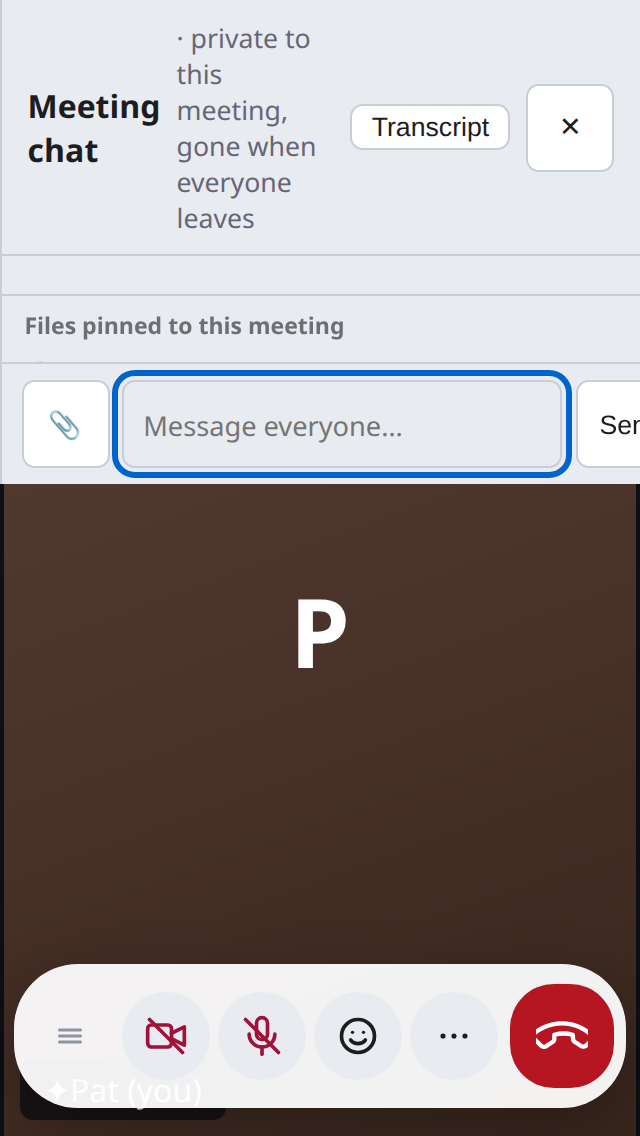
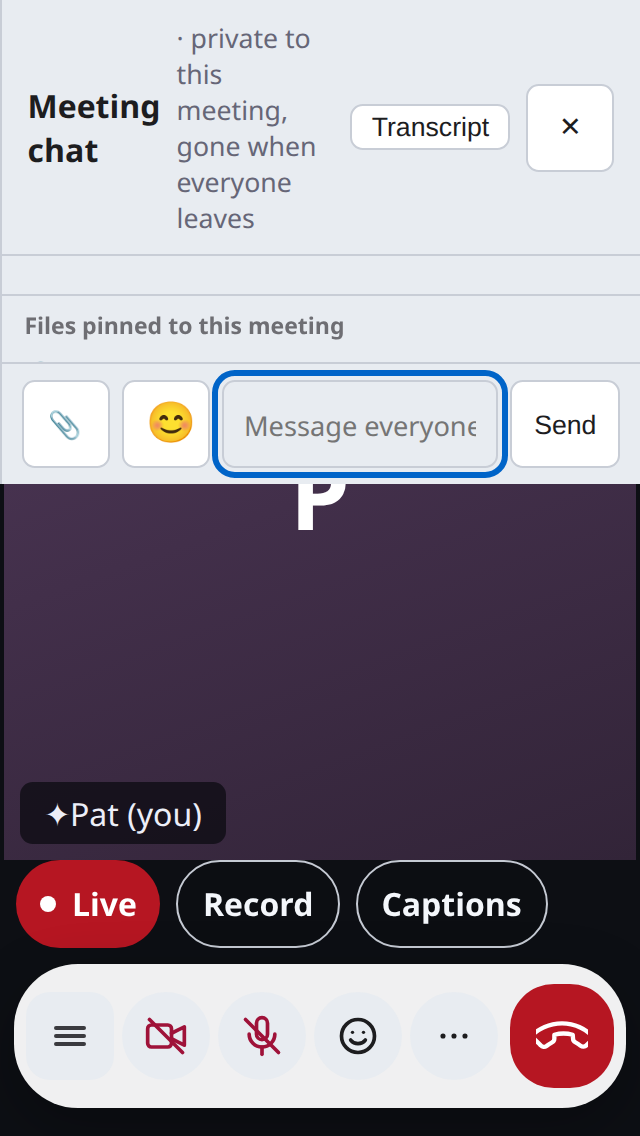
Meet mobile: keep Send on screen beside the emoji button.
The message field would not shrink below its placeholder, so Send drew past the right edge. The field can shrink, and Send stays inside the screen.

diff --git a/test/mobile/chat-above-dock.js b/test/mobile/chat-above-dock.js
@@ -42,6 +42,7 @@ const SHOTS = path.join(__dirname, '..', '..', 'qa', 'mobile', 'shots');
       inputBottom: input.bottom, inputTop: input.top, inputH: input.height,
       barTop: bar.top, vh: window.innerHeight,
       sendH: send.height, sendW: send.width,
+      sendLeft: send.left, sendRight: send.right, vw: window.innerWidth,
       closeH: close.height, closeW: close.width,
       attachH: attach.height, attachW: attach.width,
       moreOpen: !document.querySelector('.bar').classList.contains('collapsed'),
@@ -49,6 +50,7 @@ const SHOTS = path.join(__dirname, '..', '..', 'qa', 'mobile', 'shots');
   });
   if (tapped && geo.inputBottom > geo.barTop + 1) bad.push('field bottom ' + Math.round(geo.inputBottom) + ' under dock top ' + Math.round(geo.barTop));
   if (geo.sendH < 44 || geo.sendW < 44) bad.push('send ' + Math.round(geo.sendW) + 'x' + Math.round(geo.sendH));
+  if (geo.sendRight > geo.vw + 1 || geo.sendLeft < -1) bad.push('send off screen (right ' + Math.round(geo.sendRight) + ')');
   if (geo.closeH < 44 || geo.closeW < 44) bad.push('close ' + Math.round(geo.closeW) + 'x' + Math.round(geo.closeH));
   if (geo.attachH < 44 || geo.attachW < 44) bad.push('attach ' + Math.round(geo.attachW) + 'x' + Math.round(geo.attachH));
   if (geo.moreOpen) bad.push('More sheet still covers chat');

diff --git a/run.html b/run.html
@@ -1059,7 +1059,7 @@ requestAnimationFrame(chk);setTimeout(show,1500);})();</script>
   .cfile small { color: #667; }
   .cfile button { padding: .1rem .45rem; border-radius: .35rem; border: 1px solid var(--border, #2a2a3f); background: var(--surface, #1c1c2b); color: var(--text, #e0e0f0); cursor: pointer; font-size: .72rem; }
   #chatform { display: flex; gap: .4rem; padding: .5rem .6rem; border-top: 1px solid var(--border, #2a2a3f); }
-  #chatform input[type=text] { flex: 1; padding: .4rem .6rem; border-radius: .4rem; border: 1px solid var(--border, #2a2a3f); background: var(--bg, #0a0a0f); color: var(--text, #e0e0f0); font: inherit; font-size: .85rem; }
+  #chatform input[type=text] { flex: 1; min-width: 0; padding: .4rem .6rem; border-radius: .4rem; border: 1px solid var(--border, #2a2a3f); background: var(--bg, #0a0a0f); color: var(--text, #e0e0f0); font: inherit; font-size: .85rem; }
   #chatform button { padding: .4rem .7rem; border-radius: .4rem; border: 1px solid var(--border, #2a2a3f); background: var(--surface, #1c1c2b); color: var(--text, #e0e0f0); cursor: pointer; }
   .tile .cap { position: absolute; left: 50%; transform: translateX(-50%); bottom: 2.1rem; max-width: 92%;
                background: rgba(10,10,15,.82); border: 1px solid var(--border, #2a2a3f); border-radius: .45rem;

diff --git a/QUIRKS.md b/QUIRKS.md
@@ -173,6 +173,12 @@ Repro: `test/mobile/chat-emoji.js`. It failed (`no emoji control`), then passed 
 
 Before: `qa/mobile/shots/before-chat-emoji-iphone-15.png`. After: `qa/mobile/shots/after-chat-emoji-iphone-15.png`.
 
+### 21. Send slid off the screen beside Emoji
+
+The field refuses to shrink below its placeholder, so adding the emoji button pushed Send to x=382 on an SE (the screen is 320) and to x=435 on an iPhone 15.
+
+Repro: `test/mobile/chat-above-dock.js` now requires Send on screen. It failed (`send off screen (right 382)`), then passed. The field may shrink. Send stays inside the screen.
+
 ## Open
 
 The build tag `edge` sits at x=333–379, y=14, and the name chip ends at x=159, so the tag does not cover the status. A green round "A" in Nathan's shot did not appear in the Playwright capture.
